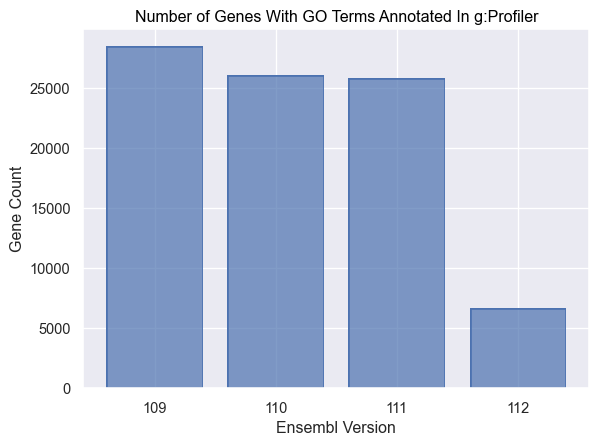
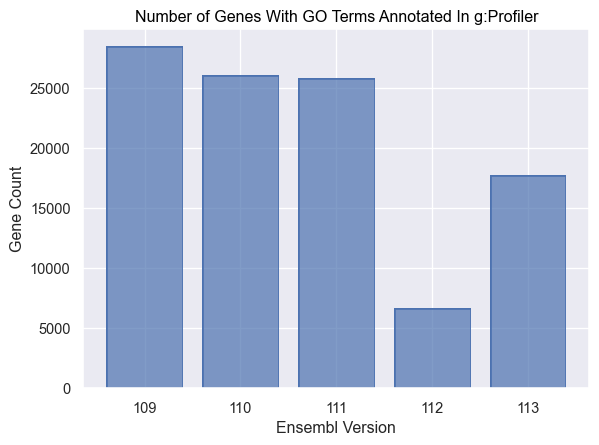
g:Profiler Ensembl 113 update.

diff --git a/README.md b/README.md
@@ -6,6 +6,8 @@
 
 (**Update 2025-05-19:** Ensembl have confirmed that the human name issue will be fixed in Ensembl 115.)
 
+(**Update 2025-06-30:** Added g:Profiler data, as now covers Ensembl 113.)
+
 **TL;DR:** For zebrafish, it's currently probably best to use Ensembl 109 for annotation, enrichment analysis, etc...
 
 I was prompted to write this because someone on [Mastodon](https://genomic.social/@mmarchin/113794610067417700) mentioned that they had spotted problems with the annotation for zebrafish in Ensembl 110 and asked for advice.
@@ -38,11 +40,15 @@ At this point, you might be wondering why I recommended using Ensembl 109 rather
 
 ![Ensembl 112 g:Profiler Enrichment](gprofiler112.png)
 
+![Ensembl 113 g:Profiler Enrichment](gprofiler113.png)
+
 As you can see, the results differ somewhat. In this case, for Ensembl 110, the enrichment becomes less specific, which seems to be a common effect, although I've also seen cases where the enrichment instead disappears.
 
 ~~g:Profiler are due to update to Ensembl 112 (in beta at least) in the next two weeks, so I'll update with the results for that version soon.~~
 
 g:Profiler updated to Ensembl 112 last week, so I've added the enrichment analysis for that version above. Oddly, the enrichments don't seem to correlate well with the number of genes that are annotated with GO terms in g:Profiler:
+
+g:Profiler have now updated to Ensembl 113 so I've added that enrichment too.
 
 ![Number of Genes With GO Terms Annotated in g:Profiler](gprofiler-go-summary.png)
 
